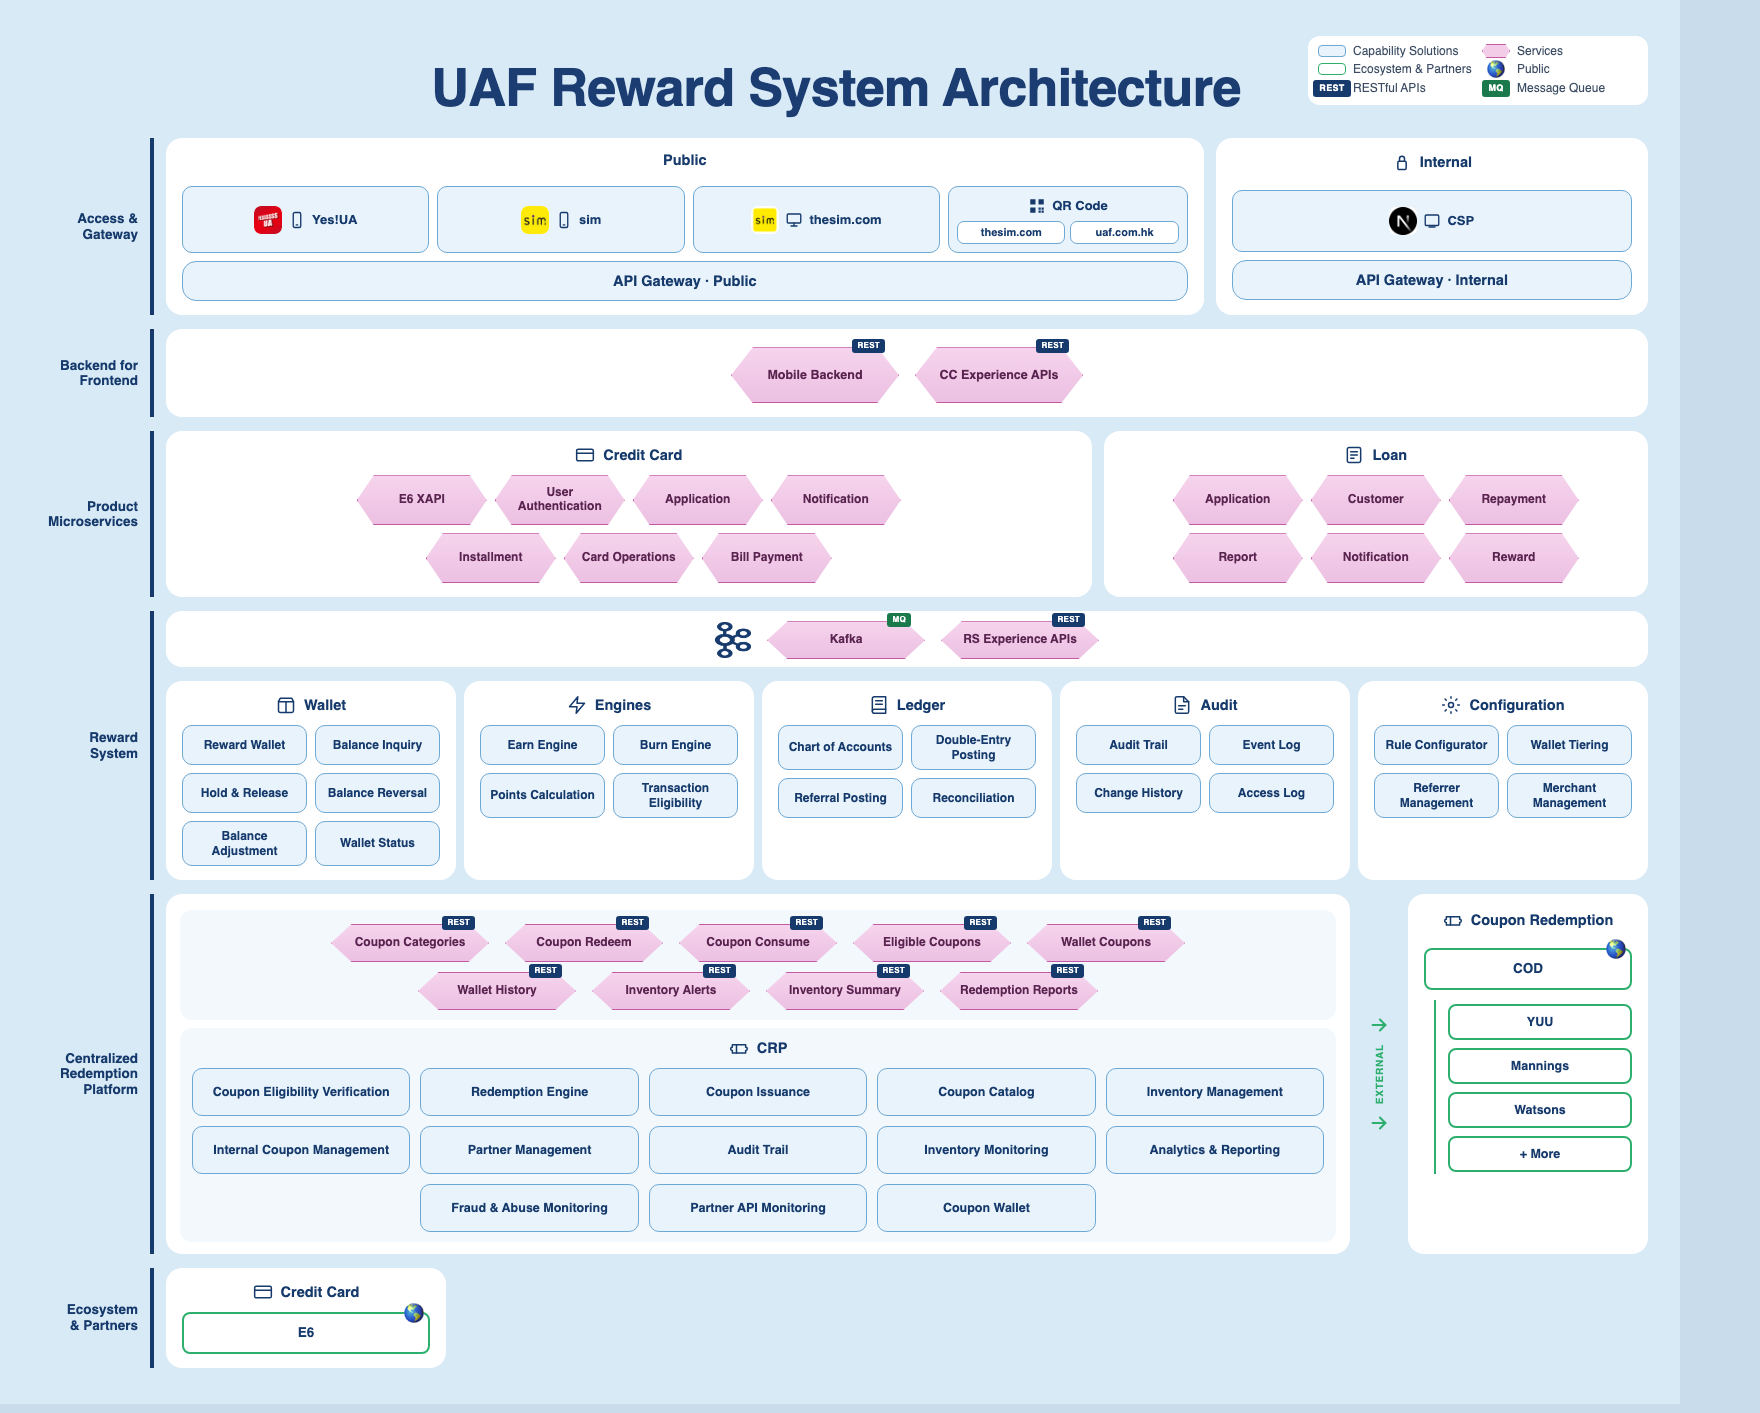
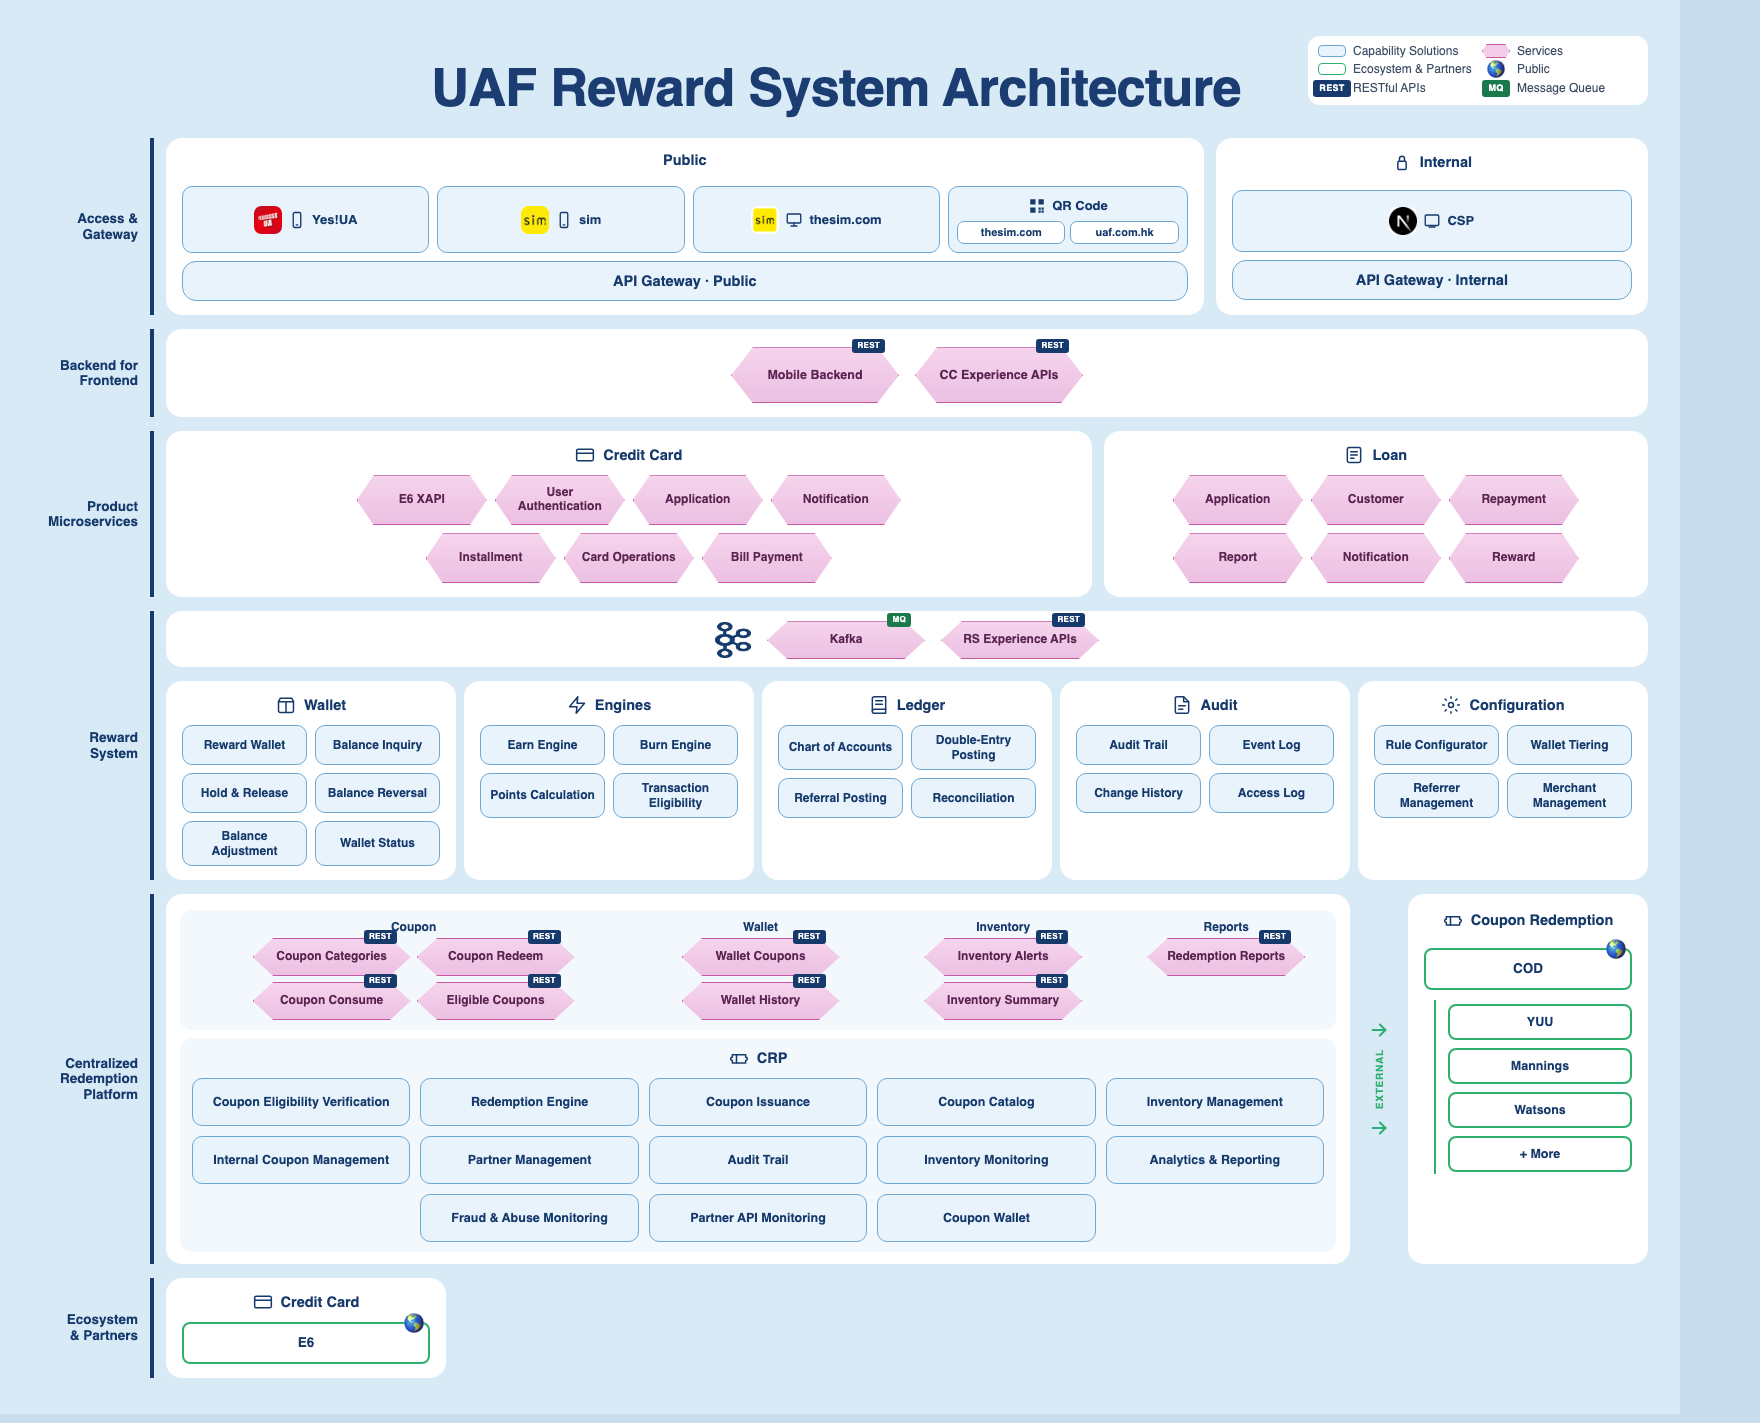
docs(decks): CRP REST APIs grouped Coupon Wallet Inventory Reports

diff --git a/docs/decks/uaf-rewards-logical-architecture.html b/docs/decks/uaf-rewards-logical-architecture.html
@@ -78,7 +78,11 @@
   .crp-span{display:grid;grid-template-columns:1fr 42px 240px;gap:8px;align-items:stretch}
   .crp-group{background:#fff;border-radius:16px;padding:12px 14px;display:flex;flex-direction:column;gap:12px}
   .crp-group .inner{background:#f3f8fd;border-radius:12px;padding:10px 12px}
-  .crp-group .inner.thin-int{padding-top:14px}
+  .rest-groups{display:grid;grid-template-columns:1.7fr .9fr .9fr .75fr;gap:8px;align-items:start}
+  .rest-g h4{text-align:center;font-size:12px;color:#163a6b;font-weight:700;margin:0 0 4px}
+  .rest-g .hexrow{gap:6px}
+  .rest-g .svcw{width:128px}
+  .rest-g .svc{width:128px;min-height:40px;font-size:11px;padding:6px 8px}
   .crp-out{display:flex;flex-direction:column;align-items:center;justify-content:center;gap:8px;color:#2faf6e}
   .crp-out span{font-size:10px;font-weight:800;letter-spacing:.08em;writing-mode:vertical-rl;transform:rotate(180deg)}
   .crp-out svg{width:22px;height:22px;stroke:#2faf6e;fill:none;stroke-width:2.2;stroke-linecap:round;stroke-linejoin:round}
@@ -297,18 +301,36 @@
     <div class="crp-span c7">
       <div class="island crp-group">
         <div class="inner thin-int">
-          <div class="hexrow">
-            <div class="svcw"><div class="svc">Coupon Categories</div><span class="badge-rest">REST</span></div>
-            <div class="svcw"><div class="svc">Coupon Redeem</div><span class="badge-rest">REST</span></div>
-            <div class="svcw"><div class="svc">Coupon Consume</div><span class="badge-rest">REST</span></div>
-            <div class="svcw"><div class="svc">Eligible Coupons</div><span class="badge-rest">REST</span></div>
-            <div class="svcw"><div class="svc">Wallet Coupons</div><span class="badge-rest">REST</span></div>
-          </div>
-          <div class="hexrow" style="margin-top:10px">
-            <div class="svcw"><div class="svc">Wallet History</div><span class="badge-rest">REST</span></div>
-            <div class="svcw"><div class="svc">Inventory Alerts</div><span class="badge-rest">REST</span></div>
-            <div class="svcw"><div class="svc">Inventory Summary</div><span class="badge-rest">REST</span></div>
-            <div class="svcw"><div class="svc">Redemption Reports</div><span class="badge-rest">REST</span></div>
+          <div class="rest-groups">
+            <div class="rest-g">
+              <h4>Coupon</h4>
+              <div class="hexrow">
+                <div class="svcw"><div class="svc">Coupon Categories</div><span class="badge-rest">REST</span></div>
+                <div class="svcw"><div class="svc">Coupon Redeem</div><span class="badge-rest">REST</span></div>
+                <div class="svcw"><div class="svc">Coupon Consume</div><span class="badge-rest">REST</span></div>
+                <div class="svcw"><div class="svc">Eligible Coupons</div><span class="badge-rest">REST</span></div>
+              </div>
+            </div>
+            <div class="rest-g">
+              <h4>Wallet</h4>
+              <div class="hexrow">
+                <div class="svcw"><div class="svc">Wallet Coupons</div><span class="badge-rest">REST</span></div>
+                <div class="svcw"><div class="svc">Wallet History</div><span class="badge-rest">REST</span></div>
+              </div>
+            </div>
+            <div class="rest-g">
+              <h4>Inventory</h4>
+              <div class="hexrow">
+                <div class="svcw"><div class="svc">Inventory Alerts</div><span class="badge-rest">REST</span></div>
+                <div class="svcw"><div class="svc">Inventory Summary</div><span class="badge-rest">REST</span></div>
+              </div>
+            </div>
+            <div class="rest-g">
+              <h4>Reports</h4>
+              <div class="hexrow">
+                <div class="svcw"><div class="svc">Redemption Reports</div><span class="badge-rest">REST</span></div>
+              </div>
+            </div>
           </div>
         </div>
         <div class="inner">
